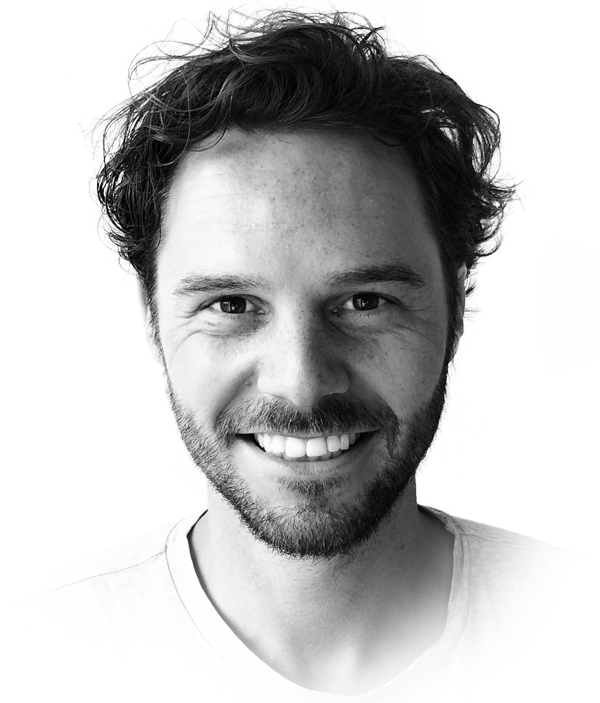
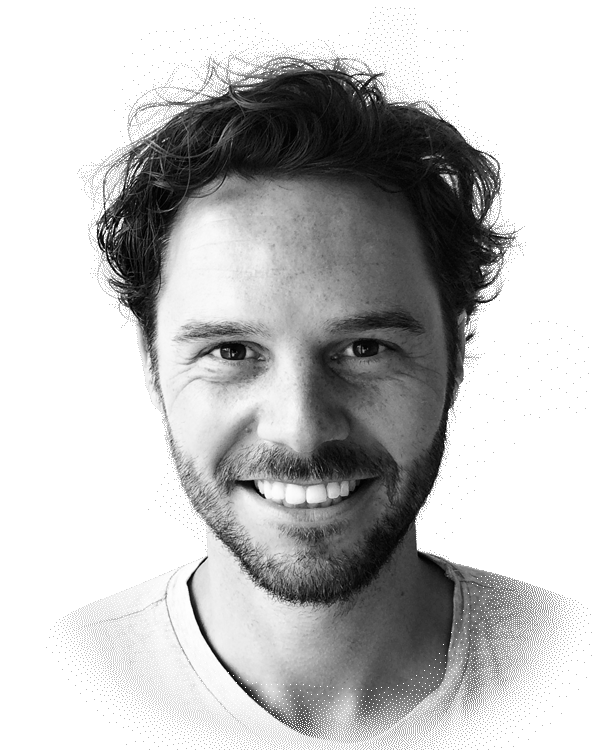
Smaller PNG, text shadow tweaks

diff --git a/index.html b/index.html
@@ -75,7 +75,6 @@ svg {
 
 path {
   fill: #5c5c5c;
-
   -webkit-transition: fill .3s ease;
   transition: fill .3s ease;
 }
@@ -93,6 +92,11 @@ a:hover .github    { fill: #1a1a1a;}
   h1 {
     font-size: 54px;
     font-size: 5.4rem;
+    text-shadow:  rgba(0, 0, 0, 0.14902) 0px 0px 0px,
+                  rgba(0, 0, 0, 0.12549) 0.19454188226603128px 1.5894485700033194px 3px,
+                  rgba(0, 0, 0, 0.0980392) 0.6774341807655272px 5.534781391786435px 6px,
+                  rgba(0, 0, 0, 0.0666667) 1.40550168958208px 11.48324784679827px 9px,
+                  rgba(0, 0, 0, 0.0352941) 2.3589628306459125px 19.27322823336235px 12px;
   }
 
   body {
@@ -105,7 +109,7 @@ a:hover .github    { fill: #1a1a1a;}
 </style>
 
 <section>
-  <img src="me.png" width="300" height="351" alt="" />
+  <img src="me.png" width="300" height="375" alt="" />
 
   <h1>Jeroen Coumans</h1>
   <p>Product designer &amp; frontend developer. <br>Co-founder at <a href='//lonerooftop.com'>Lone Rooftop</a>.
